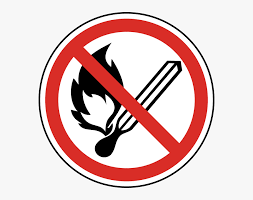
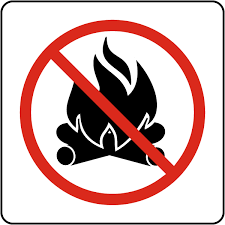
prevencion done

diff --git a/prevencion-danos.html b/prevencion-danos.html
@@ -11,6 +11,7 @@
     <!-- Favicons -->
     <link href="assets/img/favicon.png" rel="icon" />
     <link href="assets/img/apple-touch-icon.png" rel="apple-touch-icon" />
+    
 
     <!-- Google Fonts -->
     <link
@@ -102,7 +103,7 @@
   </header><!-- End Header -->
   </header>
     <!-- End Header -->
-    <main class="container" data-aos="zoom-in" data-aos-duration="1000">
+    <main class="container border shadow p-5 body" data-aos="zoom-in" data-aos-duration="1000">
       <section>
         <div class="row">
         <div class="col-lg-12 col-md-12 col-xs-12">
@@ -120,9 +121,9 @@
       
       </section>
       <section>
-        <div class="row">
+        <div class="row g-4">
         <div
-          class="col-lg-6 col-md-12 parrafoPrevencion d-flex justify-content-center align-items-center flex-column"
+          class="col-lg-6 col-md-12 d-flex justify-content-center align-items-center flex-column"
         >
           <p>
             <span class="fw-bold">GDCS</span> dispone de un
@@ -134,7 +135,7 @@
           <p class="fw-bold align-self-start">
             El programa tiene por objetivos principales los siguientes:
           </p>
-          <ul>
+          <ul class="ulPrevencion">
             <li>
               Concientizar y capacitar a terceros que planifiquen y/o ejecuten
               obras en la vía pública, sobre los reisgos asociados al gasoducto.
@@ -153,7 +154,7 @@
       </div>
       </section>
     </main>
-      <section class="row">
+      <section class="row section-bgPrev">
         <div class="container" data-aos="zoom-in" data-aos-duration="1500">
           <div class="row">
           <div class="col-12">
@@ -174,26 +175,32 @@
             </div>
           </div>
           <div class="container-fluid" data-aos="zoom-out" data-aos-duration="1000">
-          <div class="row d-flex justify-content-between mb-4">
-            <div class="col-12 col-xs-12  justify-content-between">
-              <p class="prev_title text-center">En las proximidad de gasoductos:</p>
-              <ul class="prevListTerceros">
-                <li>No realizar excavaciones sin autorizacion de GDCS. <img class="img-fluid" src="assets/img/no_digging.jpg" alt="" style="width: 30px; height: 30px; float: right;" ></li>
-                
-                <li>No realizar construcciones, aunque sean provisorias. <img class="img-fluid" src="assets/img/no_digging.jpg" alt="" style="width: 30px; height: 30px; float: right;" ></li>
-                <li>No encender foagatas. <img class="img-fluid" src="assets/img/no_digging.jpg" alt="" style="width: 30px; height: 30px; float: right;" ></li>
-                <li>No plantar árboles.<img class="img-fluid" src="assets/img/no_digging.jpg" alt="" style="width: 30px; height: 30px; float: right;" ></li>
-                <li>No transitar con vehículos pesados.<img class="img-fluid" src="assets/img/no_digging.jpg" alt="" style="width: 30px; height: 30px; float: right;" ></li>
-                <li>No robar o dañar carteles de señalización.<img class="img-fluid" src="assets/img/no_digging.jpg" alt="" style="width: 30px; height: 30px; float: right;" ></li>
-                <li>No ingresar ni dañar predios de instalaciones de gas.<img class="img-fluid"  src="assets/img/no_digging.jpg" alt="" style="width: 30px; height: 30px; float: right;" ></li>
+          <div class="row d-flex justify-content-center mb-4">
+            <div class="section-title mt-4 mb-4">
+              <h3 class="text-center">En las proximidad de gasoductos:</h3>
+            </div>
+            
+            <div class="col-lg-6 col-md-12 col-xs-12 col-xs-12  justify-content-center align-items-center">
+              
+              
+              <ul class=" prevListTerceros pr-4 ">
+               
+                <li><img class="img-fluid" src="assets/img/no_digging.jpg" alt="" style="width: 30px; height: 30px; ;" > &nbsp  No realizar excavaciones sin autorizacion de GDCS. </li>
+                <li> <img class="img-fluid" src="assets/img/no_construction.jpg" alt="" style="width: 30px; height: 30px; ;" > &nbspNo realizar construcciones, aunque sean provisorias.</li>
+                <li><img class="img-fluid" src="assets/img/No-fire.png" alt="" style="width: 30px; height: 30px; ;" > &nbspNo encender fogatas. </li>
+                <li><img class="img-fluid" src="assets/img/no_trees.jpg" alt="" style="width: 30px; height: 30px; ;" > &nbspNo plantar árboles.</li>
+                <li><img class="img-fluid" src="assets/img/no_vehicles.png" alt="" style="width: 30px; height: 30px; ;" > &nbspNo transitar con vehículos pesados.</li>
+                <li><img class="img-fluid"  src="assets/img/no-trespassing-no-trespassing-sign-white-122875366.jpg" alt="" style="width: 30px; height: 30px; ;" > &nbspNo ingresar ni dañar predios de instalaciones de gas.</li>
               </ul>
             </div>
+            
+
             
           </div>
         </div>
           </div>
         </section>
-        </div>
+      
       
     
     <div class="footer-top">

diff --git a/assets/css/style.css b/assets/css/style.css
@@ -713,7 +713,9 @@ section {
 .section-bg {
   background-color: #f6f9fe;
 }
-
+.section-bgPrev {
+  background-color: beige;
+}
 .section-title {
   text-align: center;
   padding-bottom: 30px;
@@ -1284,7 +1286,7 @@ Mision, vision y valores
 .carteles > img {
   transition: transform 800ms ease;
 }
-img:hover {
+.cartrles img:hover {
   transform: scale(1.3);
 }
 
@@ -2134,66 +2136,74 @@ img:hover {
   border-radius: 10px;
 }
 
+
 .fixMargin {
   margin-top: -100px !important;
 }
 
-.prevTitle {
+.prev_title {
   font-weight: 400;
   color: #008abe;
-  text-align: center;
+  font-size: 30px;
 }
 
 .prevSubTitle {
   color: #a3a3a3;
   font-weight: 100;
 }
+.ulPrevencion {
+  list-style-type: circle;
+  padding-left: 10px;
+}
+.ulPrevencion li {
+  font-size: 18px;
+  color: darkgrey;
+  font-style: italic;
+}
+
+
 
 .prevListTerceros li {
-  list-style: none;
-  margin-top: 10px;
+  display: block;
+  width: 100%;
+  padding: 12px 50px 20px 5px;
+  margin: 20px 0;
+  line-height: 1;
+  font-family: 'Arial';
+  font-size: 20px;
+  background-color: #f1f1f1;
+  border-right: 1px dashed #ccc;
+  border-radius: 3px;
+  box-shadow: 0 2px 6px rgba(0, 0, 0, 0.16);
+  position: relative;
+  transition: all .35s ease;
 }
-
-.prevListTerceros li::before {
-  content: "•";
-  color: #008abe;
-  margin-right: 1rem;
-}
-
-
-.parrafoPrevencion {
-  font-size: 18px;
-  font-weight: 100;
-}
-@media screen and (max-width: 550px) {
-  .textoPrevio {
-    font-size: 80%;
-  }
+.prevListTerceros li:hover {
+  transform: scale(1,1.2);
   
-  .prevListTerceros ul{
-    width: 100%;
-    padding-left: 0;
-  }
-  .prevListTerceros li  {
+}
+
+@media screen and (max-width: 778px) {
+  
+.prev_title {
+  font-weight: 300;
+  color: #008abe;
+  font-size: 20px;
+}
+  
+  
+  .prevListTerceros li {
     list-style: none;
     margin-top: 5px;
-    font-size: 9px;
-    display: flex;
-   justify-content:space-around;
-   list-style-type: none;
-   padding: 5px 0;
+    font-size: 14px;
+   margin-left: 0;
 
   }
-  li img {
+  img {
     width: 20px;
     height: 20px;
   }
 
-  .prevListTerceros li::before {
-    content: "•";
-    color: #008abe;
-    margin-right: 0;
-  }
   
   
 }
